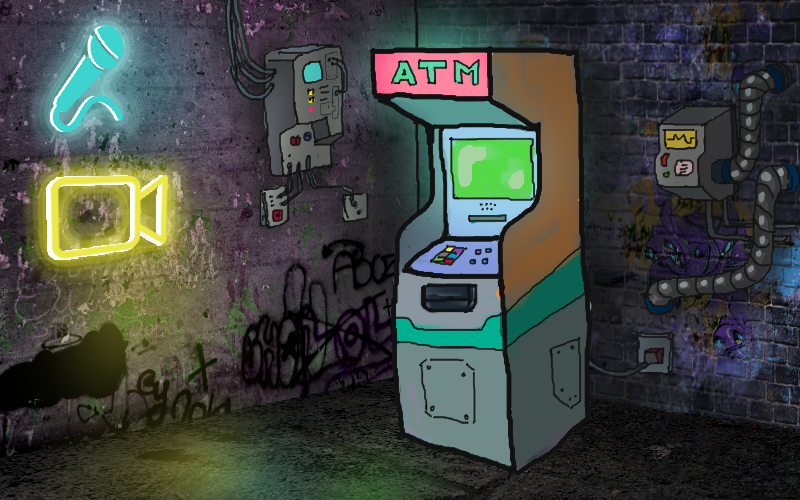
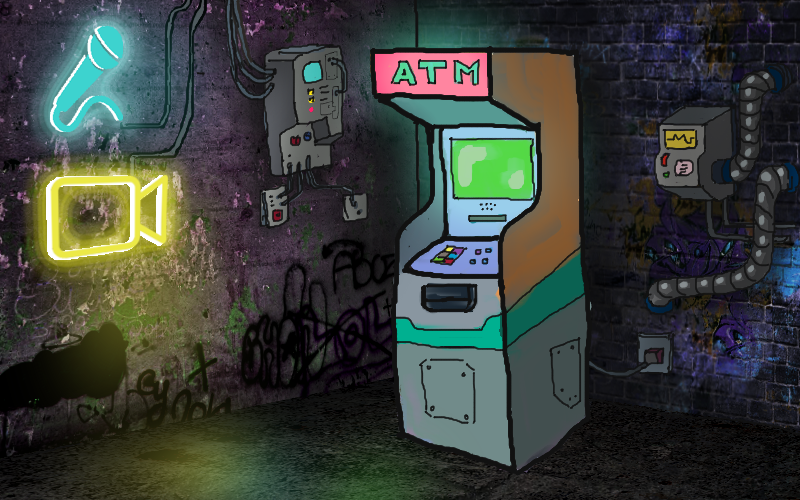
added art assets and made atm screen

Changed region(s): [[0.1562, 0.0, 0.2812, 0.3], [0.1562, 0.3, 0.2188, 0.36]]

diff --git a/sketch.js b/sketch.js
@@ -2,7 +2,7 @@ let video;
 let poseNet;
 let poses = [];
 
-let cx, cy;
+let cx = 400, cy = 250;
 let r = 20;
 
 let speechRec;
@@ -14,17 +14,22 @@ let currentOptions;
 let ATMstart = false;
 
 let openingView;
+let atmScreen;
+let micIcon;
 let myFont;
 
 function preload() {
     openingView = loadImage('assets/opening view.png');
+    atmScreen = loadImage('assets/atm-screen-view.png');
     myFont = loadFont('assets/PressStart2P-Regular.ttf');
+    micIcon = loadImage('assets/mic-icon.png');
 }
 
 function setup() {
     createCanvas(800, 500);
     video = createCapture(VIDEO);
     video.hide();
+    pixelDensity(1);
     
     let options = {
         flipHorizontal: true
@@ -41,7 +46,7 @@ function setup() {
     let interim = false;
     speechRec.start(continuous, interim);
     
-    ATMsays = 'Want Cash?'
+    ATMsays = 'Hi there, welcome human. So you want cash?'
     currentOptions = wantCash;
 
 }
@@ -64,7 +69,7 @@ function drawCursor() {
         cx = mouthPos.x;
         cy = mouthPos.y + 50;
         noStroke();    
-        fill(0, 255, 0, 126);
+        fill(255, 150, 0, 126);
         ellipse(cx, cy, r, r);
     }
 }
@@ -74,53 +79,61 @@ function draw() {
     //image(video, width/2-120, 360, 240, 180);
     
     if (ATMstart === false) {
-        openingScreen();
+        showBackAlley();
     } else {
         showATMscreen();
+        ATMreact();
         drawCursor();
     }
-    
 }
 
-function openingScreen() {
+function showBackAlley() {
     image(openingView, 0, 0, width, height);
     
+    //UI
+    push();
     fill(255, 180);
     stroke(0);
     strokeWeight(4);
-    rect(40, 320, 275, 140, 10);
+    rect(40, 300, 300, 180, 10);
     
     fill(0);
-    noStroke();
-    textSize(16);
+    stroke(255);
+    strokeWeight(2);
+    textSize(18);
     textFont(myFont);
-    text('THE LONELY ATM', 60, 360);
+    text('THE LONELY ATM', 60, 340);
+    textSize(10);
+    text('Stop by for money, advice or just a chat.', 60, 355, 280, 100);
     
-    if (mouseX > 50 && mouseX < 130 && mouseY > 380 && mouseY < 440) {
+    //about button
+    if (mouseX > 60 && mouseX < 120 && mouseY > 400 && mouseY < 460) {
         fill(255, 255, 50);
     } else {
         fill(0, 100, 255);
     }
     stroke(0);
     strokeWeight(3);
-    rect(60, 380, 60, 60, 30);
+    rect(60, 400, 60, 60, 30);
     
     fill(255);
     textSize(24);
-    text('?', 80, 425);
+    text('?', 80, 445);
     
-    if (mouseX > 150 && mouseX < 300 && mouseY > 380 && mouseY < 440) {
+    //interact button
+    if (mouseX > 140 && mouseX < 290 && mouseY > 400 && mouseY < 460) {
         fill(50, 255, 255);
     } else {
         fill(200, 100, 255);
     }
     stroke(0);
     strokeWeight(3);
-    rect(140, 380, 150, 60, 10);
+    rect(140, 400, 150, 60, 10);
     
     fill(255);
     textSize(12);
-    text('Interact ->', 150, 415);
+    text('Interact ->', 150, 435);
+    pop();
 }
 
 function mousePressed() {
@@ -132,14 +145,59 @@ function mousePressed() {
 }
 
 function showATMscreen() {
-    let thisScreen = new ScreenState(ATMsays, width/2, 150, currentOptions);
+    image(atmScreen, 0, 0, width, height);
+    
+    //draw screen
+    push();
+    rectMode(CENTER);
+    fill(0, 200, 255);
+    stroke(0);
+    strokeWeight(3);
+    rect(width/2, height/2, 600, 350, 10);
+    noFill();
+    strokeWeight(2);
+    rect(width/2, height/2, 620, 370, 10);
+    
+    rectMode(CORNER);
+    noStroke();
+    fill(0, 255, 100);
+    rect(125, 100, 250, 150, 30);
+    stroke(0, 255, 100);
+    strokeWeight(2);
+    line(175, 250, 175, 300);
+    line(175, 300, 250, 350);
+    
+    if (poses.length > 0) {
+        let d = dist(cx, cy, 250, 350);
+        if (d < 50) {
+            fill(255, 100, 0);
+        } else {
+            fill(200, 200, 0);
+        }
+    }
+    noStroke();
+    ellipse(250, 350, 75);
+    image(micIcon, 225, 325, 50, 50);
+    pop();
+    
+    fill(0, 101, 68);
+    noStroke();
+    textFont(myFont);
+    textAlign(LEFT, CENTER);
+    textSize(45);
+    text('._.', 200, 175);
+}
+
+function ATMreact() {
+    let thisScreen = new ScreenState(ATMsays, currentOptions);
     thisScreen.display();
 }
 
 //ATM RESPONSE FUNCTIONS
 
 let enterPin = function() {
-    ATMsays = 'Enter your PIN'
+    
+    ATMsays = 'Enter your PIN.'
     currentOptions = pinPad;
 }
 
@@ -152,14 +210,13 @@ let whyNot = function() {
 
 let wantCash = function() {
     //generate selections
-    options.push(new UserSelection('Yes', width/2 - 200, height/2-50, enterPin));
-    options.push(new UserSelection('No', width/2, height/2-50, whyNot));
-    options.push(new UserSelection('Maybe', width/2 + 200, height/2-50, whyNot));
+    let optYes = new UserSelection('Yes', 550, 250, enterPin);
+    let optNo = new UserSelection('No', 550, 300, whyNot);
+    let optMaybe = new UserSelection('Maybe', 550, 350, whyNot);
     
-    for (let i = 0; i < options.length; i++) {
-        options[i].display();
-        options[i].detectSelect();
-    }
+    optYes.display();
+    optNo.display();
+    optMaybe.display();
 }
 
 let pinPad = function() {
@@ -171,19 +228,20 @@ let whyNotOps = function() {
 }
 
 class ScreenState {
-    constructor(screenText, xPos, yPos, genOptions) {
+    constructor(screenText, showOptions) {
         this.screenText = screenText;
-        this.xPos = xPos;
-        this.yPos = yPos;
-        this.genOptions = genOptions;
+        this.showOptions = showOptions;
         this.isState = false;
     }
     
     display() {
-        textSize(50);
+        textSize(20);
         fill(0);
-        text(this.screenText, this.xPos, this.yPos);
-        this.genOptions();
+        noStroke();
+        textFont(myFont);
+        textAlign(LEFT, TOP);
+        text(this.screenText, 550, 160, 300, 100);
+        this.showOptions();
     }
 }
 
@@ -202,28 +260,33 @@ class UserSelection {
     display() {
         rectMode(CENTER);
         //detect hover
-        if (poses) {
-            if (cx > this.xPos - 50 && cx < this.xPos + 50 && cy > this.yPos - 20 && cy < this.yPos + 20) {
-                noFill();
-                stroke(0,0,255)
-                rect(this.xPos, this.yPos, 110, 50, 5);
-                fill(0, 0, 255);
-                this.isSelected = true;
-            } else {
-                fill(0);
-            }
-        }
-        rect(this.xPos, this.yPos, 100, 40, 5);
+//        if (poses) {
+//            if (cx > this.xPos - 50 && cx < this.xPos + 50 && cy > this.yPos - 20 && cy < this.yPos + 20) {
+//                noFill();
+//                stroke(0,0,255)
+//                rect(this.xPos, this.yPos, 210, 50, 5);
+//                fill(0, 0, 255);
+//                this.isSelected = true;
+//            } else {
+//                fill(0, o, 255);
+//            }
+//        }
+        fill(0, 0, 255);
+        rect(this.xPos, this.yPos, 200, 40, 5);
         fill(255);
         noStroke();
         textSize(12);
-        textAlign(CENTER, CENTER);
-        text(this.optionText, this.xPos, this.yPos, 100, 40);
+        textFont(myFont);
+        textAlign(RIGHT, CENTER);
+        text(this.optionText, this.xPos, this.yPos, 200, 40);
+        
+        this.detectSelect();
     }
     
     detectSelect() {
         let lowercaseInput = this.optionText.toLowerCase();
         if (lowercaseInput === speechInput) {
+            
             this.onSelect();
         }
     }
